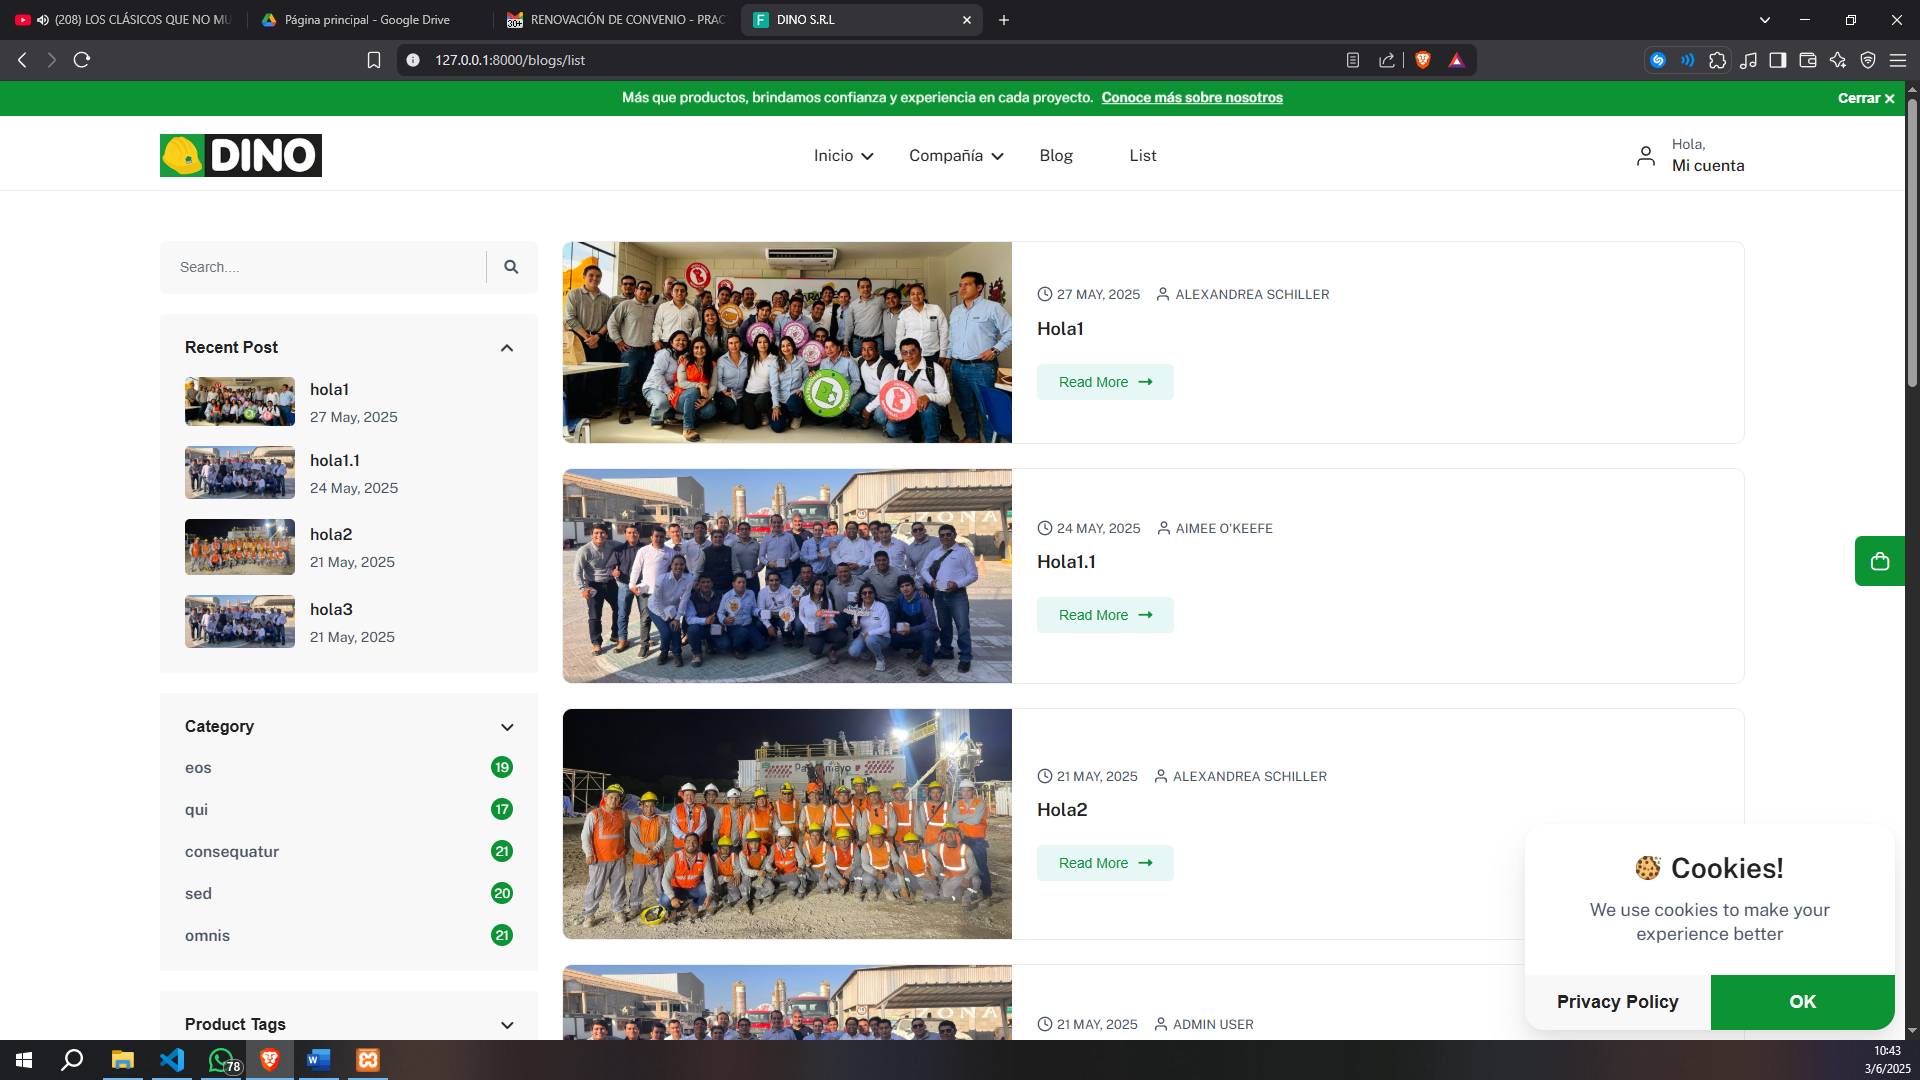
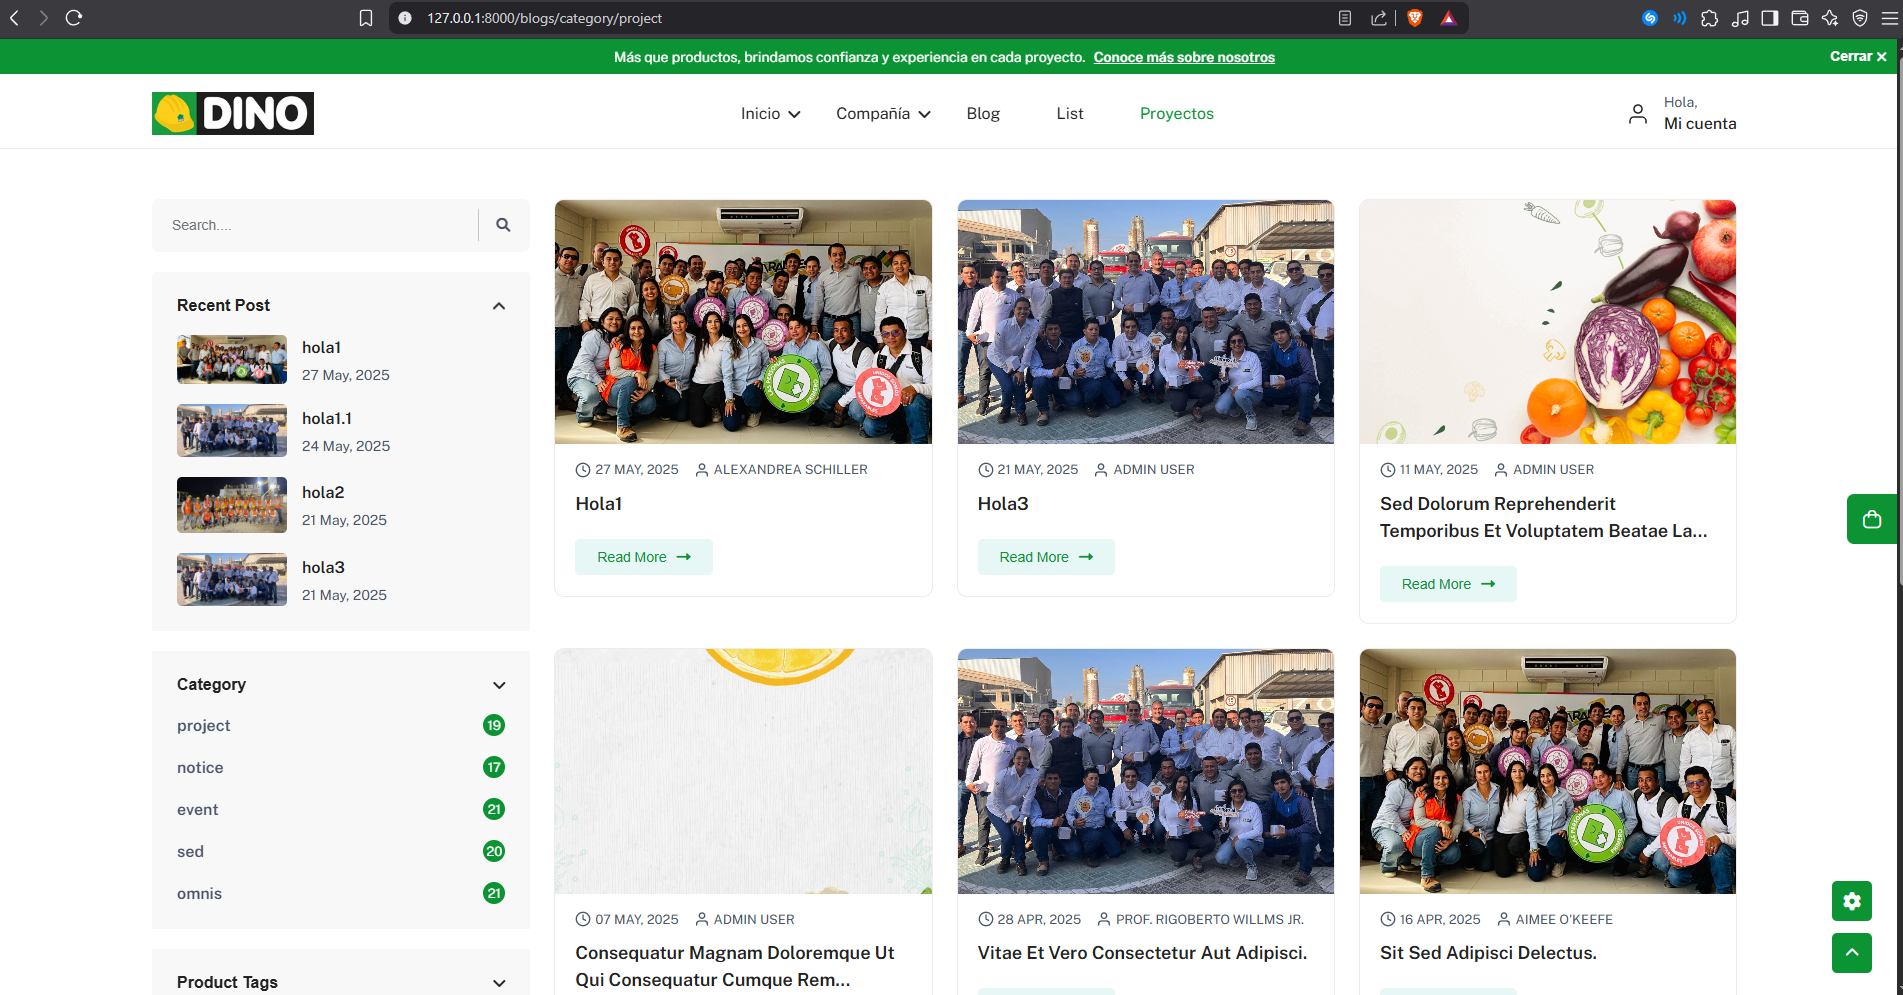
Se agrega en el proyecto el project-card, donde se mostrara solo proyectos. Se ha modificado project-card y header.

diff --git a/resources/views/blog/partials/project-card.blade.php b/resources/views/blog/partials/project-card.blade.php
@@ -1,0 +1,59 @@
+@extends('layouts.app')
+
+@section('title', 'Proyecto')
+
+@section('content')
+    <!-- Blog Section Start -->
+    <section class="blog-section section-b-space">
+        <div class="container-fluid-lg">
+            <div class="row g-4">
+                <div class="col-xxl-9 col-xl-8 col-lg-7 order-lg-2">
+                    <div class="row g-4 ratio_65">
+                        @foreach ($allPosts as $post)
+                            @if ($post->categories->contains('slug', 'project'))
+                                <div class="col-xxl-4 col-sm-6">
+                                    <div class="blog-box wow fadeInUp">
+                                        <div class="blog-image">
+                                            <a href="{{ route('posts.show', ['id' => $post->id, 'slug' => $post->slug]) }}">
+                                                <img src="{{ asset('storage/' . $post->featured_image) }}"
+                                                    class="bg-img blur-up lazyload" alt="">
+                                            </a>
+                                        </div>
+
+                                        <div class="blog-contain">
+                                            <div class="blog-label">
+                                                <span class="time">
+                                                    <i data-feather="clock"></i>
+                                                    <span>{{ $post->published_at->format('d M, Y') }}</span>
+                                                </span>
+                                                <span class="super">
+                                                    <i data-feather="user"></i>
+                                                    <span>{{ $post->user->name }}</span>
+                                                </span>
+                                            </div>
+                                            <a href="{{ route('posts.show', ['id' => $post->id, 'slug' => $post->slug]) }}">
+                                                <h3>{{ Str::limit($post->title, 60) }}</h3>
+                                            </a>
+                                            <button
+                                                onclick="location.href='{{ route('posts.show', ['id' => $post->id, 'slug' => $post->slug]) }}'"
+                                                class="blog-button">
+                                                Read More <i class="fa-solid fa-right-long"></i>
+                                            </button>
+                                        </div>
+                                    </div>
+                                </div>
+                            @endif
+                        @endforeach
+                    </div>
+
+                    {{-- Paginación --}}
+                    <nav class="custom-pagination mt-4">
+                        {{ $allPosts->links('pagination::bootstrap-5') }}
+                    </nav>
+                </div>
+                @include('blog.partials.leftSidebar')
+            </div>
+        </div>
+    </section>
+    <!-- Blog Section End -->
+@endsection

diff --git a/resources/views/partials/header.blade.php b/resources/views/partials/header.blade.php
@@ -147,6 +147,14 @@
                                                     List
                                                 </a>
                                             </li>
+
+                                            <li class="nav-item">
+                                                <a class="nav-link ps-xl-2 ps-0 no-icon {{ Route::is('posts.category') && request()->slug == 'project' ? 'active' : '' }}"
+                                                    href="{{ route('posts.category', ['slug' => 'project']) }}">
+                                                    Proyectos
+                                                </a>
+                                            </li>
+
                                         </ul>
                                     </div>
                                 </div>
